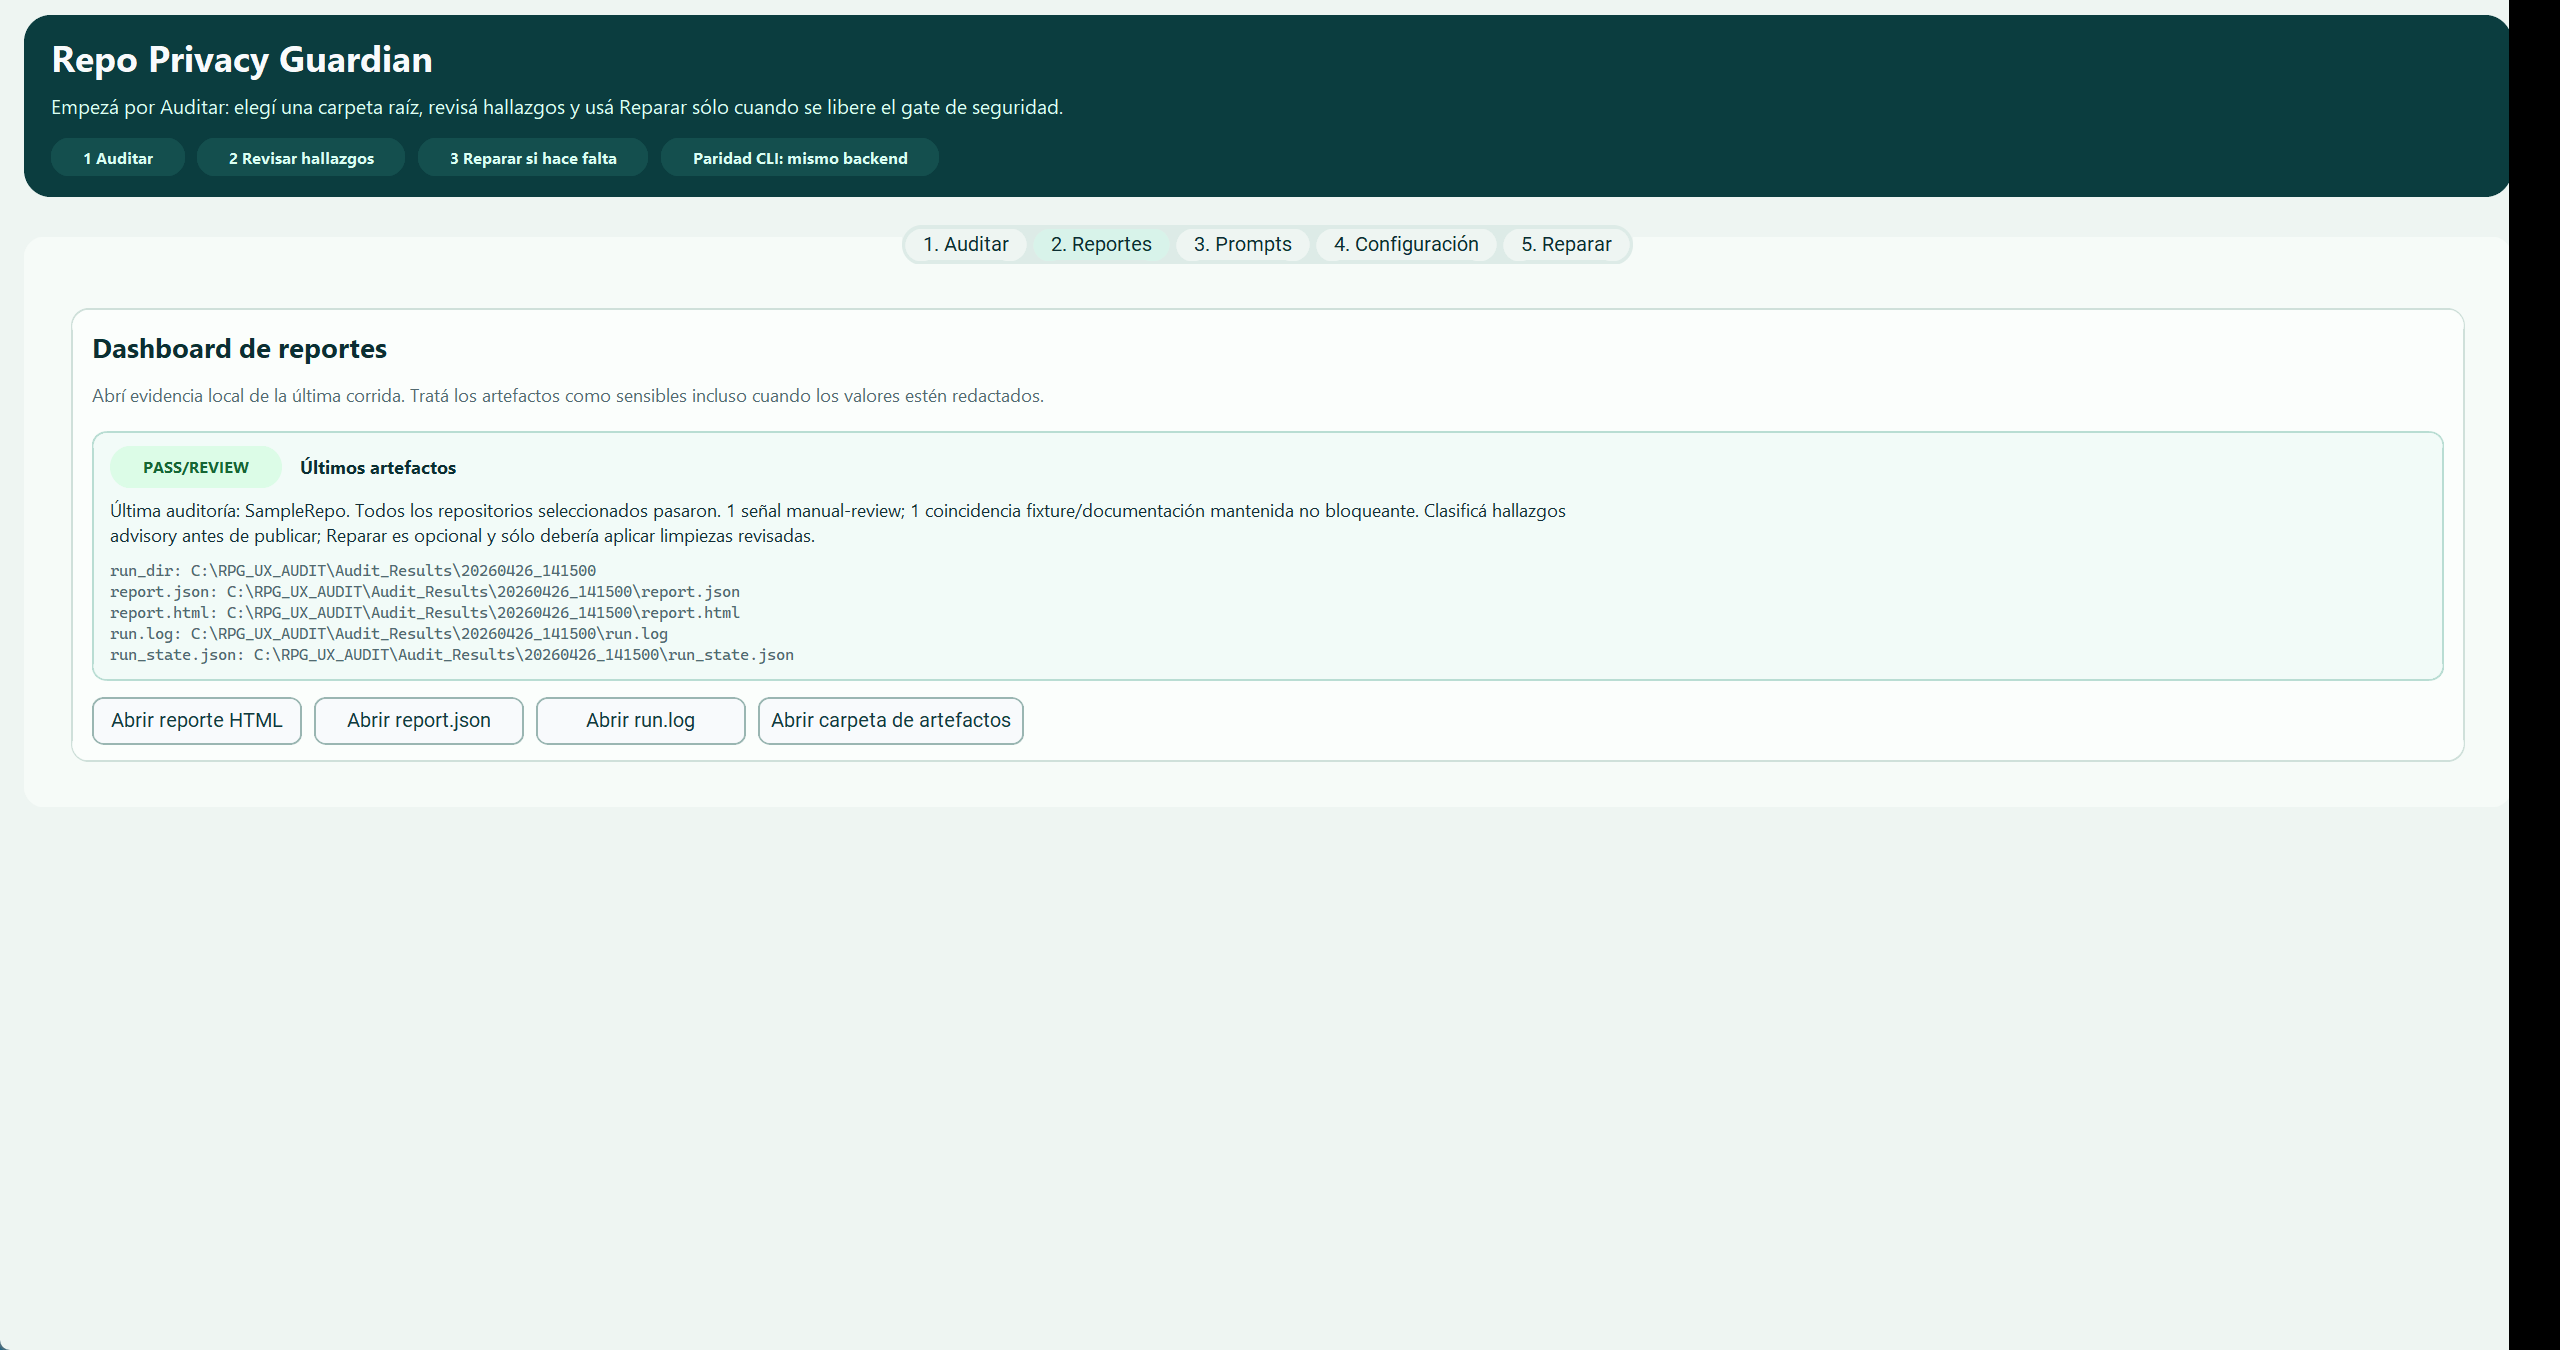
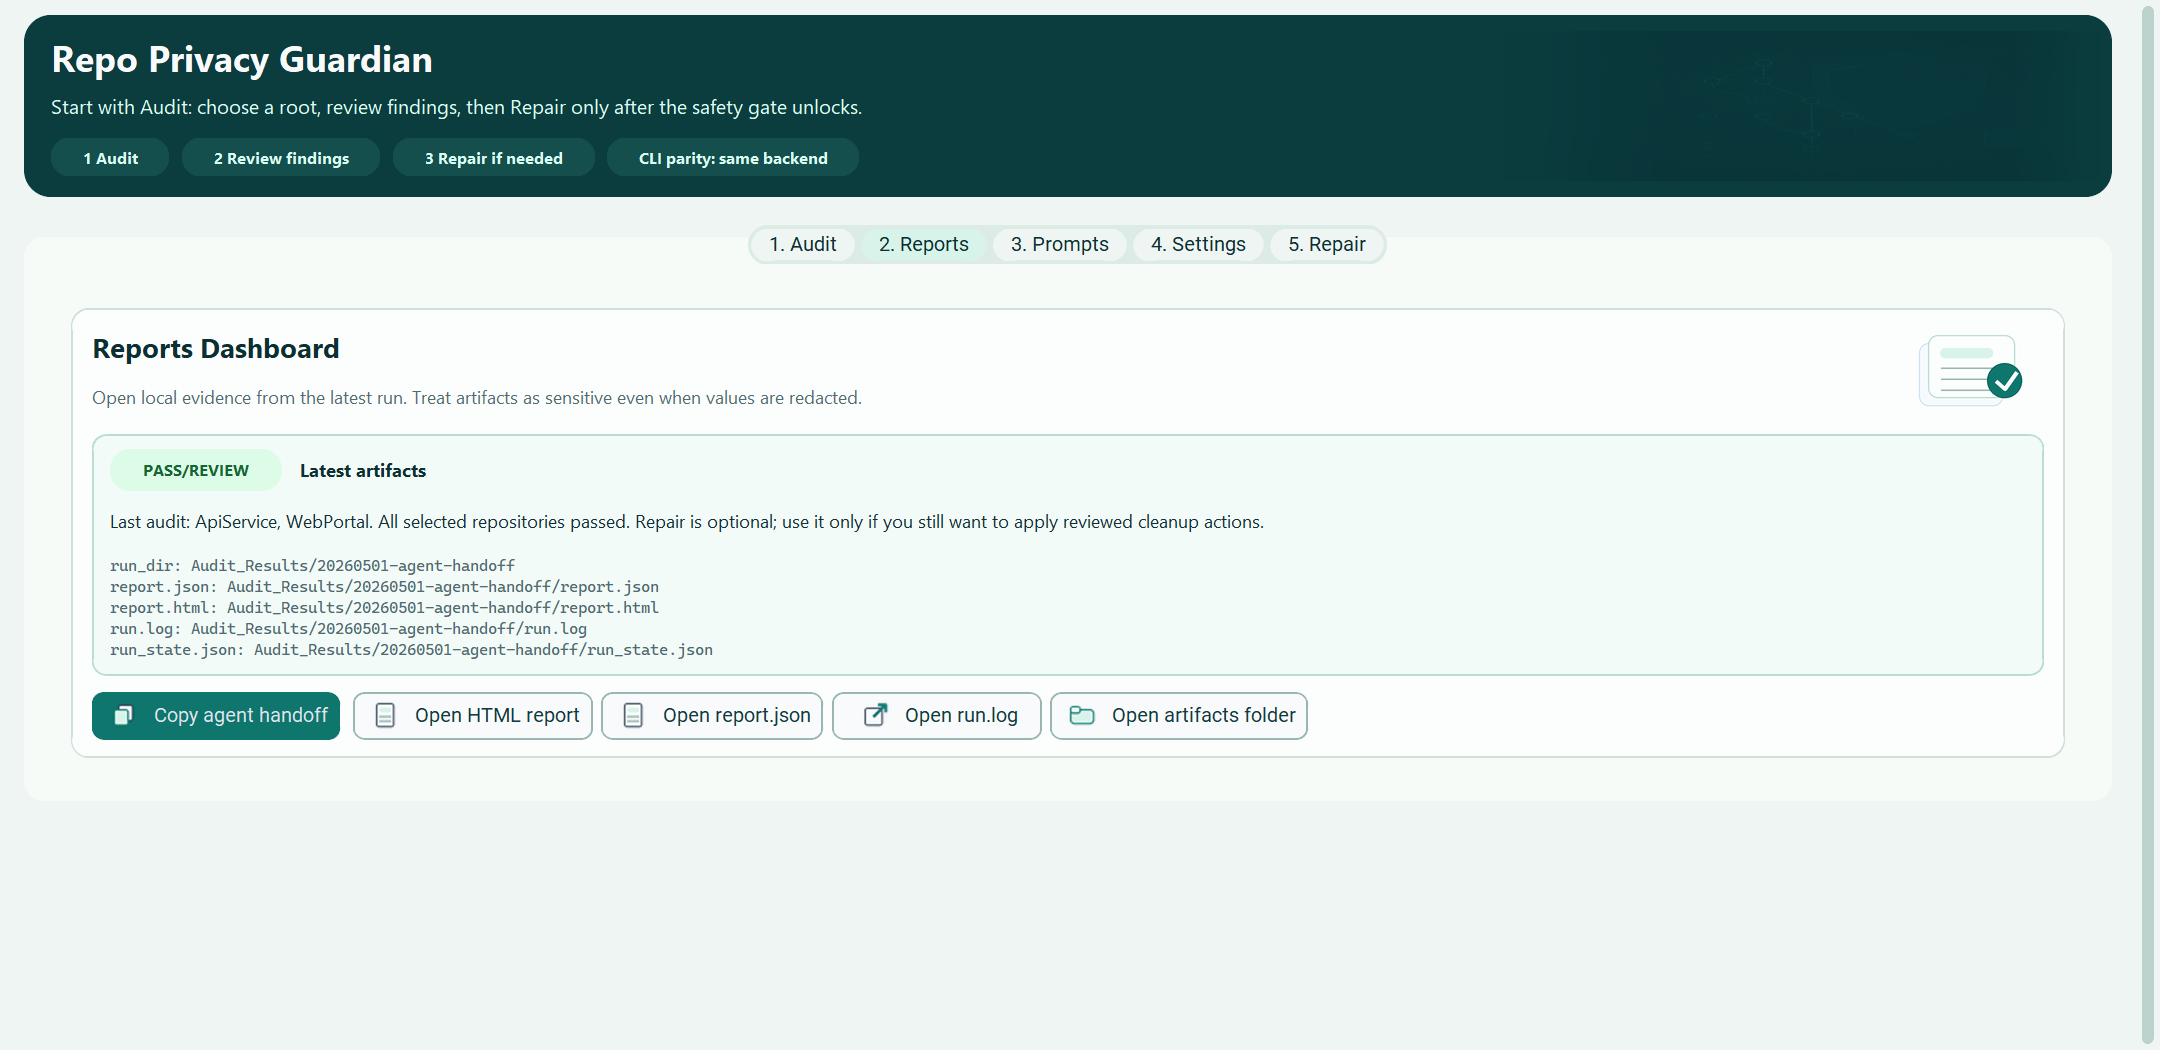
docs: clarify agent-first README positioning

Changed region(s): [[0.0, 0.0, 1.0, 1.0]]

diff --git a/README.MD b/README.MD
@@ -7,9 +7,9 @@
 
 ![Repo Privacy Guardian release readiness banner](docs/assets/repo-privacy-guardian-banner.png)
 
-🔒 Repo Privacy Guardian is a local-first publication gate for auditing and hardening Git repositories before public release.
+🔒 Repo Privacy Guardian is an agent-first, local-first publication gate for auditing and hardening Git repositories before public release.
 
-It is designed for repeatable CLI execution first, with an optional desktop GUI that runs on the same underlying pipeline. Developed and maintained by **Okavango SAS**.
+It is built for coding-agent workflows in Codex, Claude Code, Antigravity, GitHub Copilot, Cursor, and similar IDEs: run the CLI locally, keep redacted evidence, classify findings, and apply only reviewed fixes. The optional desktop GUI is a companion for manual review, reports, prompts, and gated repair on the same underlying pipeline. Developed and maintained by **Okavango SAS**.
 
 ## 🔍 What It Audits
 
@@ -25,7 +25,7 @@ It is designed for repeatable CLI execution first, with an optional desktop GUI 
 
 ## 🌎 Language / Idioma
 
-**Español (Latinoamérica).** Repo Privacy Guardian te ayuda a revisar repositorios Git antes de publicarlos: detecta secretos, metadatos de identidad Git, rutas personales, archivos sensibles e inconsistencias de `.gitignore`, y genera evidencia local en JSON, HTML y log. La CLI se mantiene en inglés para preservar compatibilidad con automatizaciones, pero la GUI permite elegir `Español (Latinoamérica)` sin cambiar el comportamiento ni los reportes.
+**Español (Latinoamérica).** Repo Privacy Guardian te ayuda a revisar repositorios Git antes de publicarlos: detecta secretos, metadatos de identidad Git, rutas personales, archivos sensibles e inconsistencias de `.gitignore`, y genera evidencia local en JSON, HTML y log. Está pensado para flujos con IDEs agénticas: primero auditoría local por CLI, después evidencia, clasificación y reparación revisada. La CLI se mantiene en inglés para preservar compatibilidad con automatizaciones, pero la GUI permite elegir `Español (Latinoamérica)` sin cambiar el comportamiento ni los reportes.
 
 Para abrir la GUI en español desde este checkout:
 
@@ -36,13 +36,15 @@ repo-privacy-guardian --gui
 
 Luego abrí `Settings` (`Configuración`) → `GUI Language` (`Idioma de la GUI`) → `Español (Latinoamérica)`.
 
-**English.** Repo Privacy Guardian audits Git repositories before public release: it detects secrets, Git identity metadata, personal paths, sensitive files, and `.gitignore` drift, then writes local JSON, HTML, and log evidence. The CLI remains English for automation compatibility, while the GUI can switch between `English` and `Español (Latinoamérica)` without changing behavior or reports.
+**English.** Repo Privacy Guardian audits Git repositories before public release: it detects secrets, Git identity metadata, personal paths, sensitive files, and `.gitignore` drift, then writes local JSON, HTML, and log evidence. It is optimized for agentic IDE workflows: local CLI audit first, then evidence, classification, and reviewed repair. The CLI remains English for automation compatibility, while the GUI can switch between `English` and `Español (Latinoamérica)` without changing behavior or reports.
 
 ## 🖥️ Desktop GUI Preview
 
-![Repo Privacy Guardian desktop GUI audit screen](docs/ux-audit/after/audit-default-desktop-after.png)
+| Audit | Reports and agent handoff |
+| --- | --- |
+| ![Repo Privacy Guardian desktop GUI audit screen](docs/ux-audit/after/audit-default-desktop-after.png) | ![Repo Privacy Guardian desktop GUI reports and agent handoff screen](docs/ux-audit/after/reports-desktop-after.png) |
 
-The desktop GUI is optional and shares the same audit engine, policy keys, report schema, and safety gates as the CLI. Maintained, sanitized GUI screenshots live under `docs/ux-audit/`.
+The desktop GUI is optional and shares the same audit engine, policy keys, report schema, and safety gates as the CLI. It is a companion for manual review: `Audit` starts the local run, `Reports` opens local evidence and can copy a privacy-safe agent handoff, `Prompts` exposes the maintained prompt library, and `Repair` stays gated. Maintained, sanitized GUI screenshots live under `docs/ux-audit/`.
 
 ## ⚡ 60-Second First Run
 

diff --git a/docs/UX_UI_AUDIT.md b/docs/UX_UI_AUDIT.md
@@ -107,11 +107,11 @@ After:
 
 ![Repair post-audit after](ux-audit/after/repair-post-audit-after.png)
 
-### Reports Dashboard
+### Reports Dashboard And Agent Handoff
 
 After:
 
-![Reports desktop after](ux-audit/after/reports-desktop-after.png)
+![Reports desktop after with agent handoff](ux-audit/after/reports-desktop-after.png)
 
 ### Prompts Library
 

diff --git a/CHANGELOG.md b/CHANGELOG.md
@@ -15,6 +15,8 @@ All notable user-facing changes to this project are documented here.
 - Added a localized `Go to Audit` empty-state action in the GUI Reports tab so first-time users have a clear next step before any artifacts exist.
 - Added a GUI Reports action to copy a privacy-safe agent handoff prompt with local artifact references for Codex, Claude Code, Cursor, GitHub Copilot, and similar IDE sessions.
 - Changed GUI Reports artifact labels to prefer repository-relative paths, keeping the screen cleaner and avoiding visible personal absolute paths when artifacts live under the repo.
+- Clarified the README opening and bilingual quick description so the agent-first CLI workflow is visible before deeper documentation sections.
+- Refreshed the tracked GUI Reports screenshot and added it to the README preview so the public docs show the local evidence and agent-handoff workflow.
 - Updated README attribution to reflect Okavango SAS as the project maintainer while preserving original author and CTO credit.
 - Added a sanitized desktop GUI preview screenshot to the README.
 - Refreshed the README desktop GUI preview screenshot against the current light-mode companion UI with neutral visible paths.